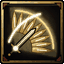
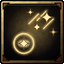
Anjo: farm de área vira Chuva de Estrelas
Troca o Leque do Juízo (cone, nível 5, usado pelo modo automático) por
uma chuva de estrelas sobre o ponto do mouse: círculo de 2.6 tiles,
recarga 3.0 s, mult 1.2, 4 estrelas. Id mantido (anjo_leque_juizo) porque
o jogo referencia esse id em habilidades.gd, jogador.gd e efeitos.gd.

Ícone do nível 5 redesenhado (motivo em motivos_skills.py) nos três tamanhos.

Claude-Session: https://claude.ai/code/session_01B8yavTgtjqjp7brHmbVyqa

diff --git a/design/skills-itens/fontes/skills_data.py b/design/skills-itens/fontes/skills_data.py
@@ -264,14 +264,14 @@ sk(id="tecnomancer_maquina_juizo_reverso", classe="tecnomancer", nome="Máquina 
 # Feitas para FARMAR em spots e para o MODO AUTOMÁTICO: área grande, recarga curta, custo que esvazia o recurso
 # em ~20 s de uso contínuo a partir do cheio (ver 'economia_auto'). Números PROVISÓRIOS até a thread Design do combate fechar mana e poções.
 NIVEL5 = dict(nivel=5, area_nivel5=True, provisorio=True)
-sk(id="anjo_leque_juizo", classe="anjo", nome="Leque do Juízo", tipo="area", **NIVEL5,
-   custo=16, recarga=1.6, conjuracao=0.35, alcance=0, area="leque 100° à frente, 3.5 tiles", duracao=2.0, elemento="sagrado", escala=["ESP","FOR"],
-   formato_area={"forma":"cone","angulo_graus":100,"raio_tiles":3.5,"origem":"personagem","direcao":"mouse"},
-   dano={"golpe_espada_mult":1.3,"fogo_mult_por_alvo":0.9,"queimadura_sagrada":{"duracao_s":2.0,"dano_por_s_mult":0.1}},
-   efeitos=["golpe de espada no alvo da frente", "fogo divino queima tudo no leque", "+15% de dano em tag:praga (mutantes e pragas)", "só o 1º alvo gera Graça"],
-   descricao="O Anjo desce a espada e o golpe não para na lâmina: o ar à frente pega fogo branco e se abre como um leque de penas em brasa.",
-   fx="arco da espada + chamas brancas e douradas abrindo em leque do chão para frente + penas queimando no ar", som="lâmina pesada + whoosh de fogo + coro curto",
-   economia_auto={"recurso_max_nivel5":"~120 Graça", "gasto_por_s":10.0, "ganho_por_s":"~4 (1,5 regen + golpe no 1º alvo)", "dura_do_cheio_s":20})
+sk(id="anjo_leque_juizo", classe="anjo", nome="Chuva de Estrelas", tipo="area", **NIVEL5,
+   custo=18, recarga=3.0, conjuracao=0.3, alcance=7, area="círculo de 2.6 tiles no ponto do mouse", duracao=1.2, elemento="sagrado", escala=["ESP","FOR"],
+   formato_area={"forma":"circulo","raio_tiles":2.6,"origem":"ponto_alvo","direcao":"mouse"},
+   dano={"mult":1.2, "estrelas":4},
+   efeitos=["4 estrelas de luz caem do céu sobre o ponto do mouse", "impacto dourado em cada alvo da área", "+15% de dano em tag:praga (mutantes e pragas)", "só o 1º alvo gera Graça"],
+   descricao="O Anjo ergue a espada e o céu responde: estrelas de luz descem em diagonal e explodem na cabeça dos inimigos, uma após a outra, até a área virar um clarão dourado.",
+   fx="4 estrelas em diagonal descendo do topo da tela + flash branco-dourado no impacto + mini-explosão de luz na posição do mob", som="sino curto + assobio de estrela + estalo de luz",
+   economia_auto={"recurso_max_nivel5":"~120 Graça", "gasto_por_s":6.0, "ganho_por_s":"~4 (1,5 regen + golpe no 1º alvo)", "dura_do_cheio_s":20})
 sk(id="cultista_espinhos_sangue", classe="cultista", nome="Espinhos de Sangue", tipo="area", **NIVEL5,
    custo="5% HP", recarga=1.8, conjuracao=0.5, alcance=7, area="círculo de 2.2 tiles no ponto do mouse", duracao=0.6, elemento="sangue", escala=["ESP"],
    formato_area={"forma":"circulo","raio_tiles":2.2,"origem":"ponto_alvo","alcance_max_tiles":7},

diff --git a/tools/icones/motivos_skills.py b/tools/icones/motivos_skills.py
@@ -246,15 +246,14 @@ def humano_arrancada(E):
 def _leque(cx, cy, r, a0, a1, cor, op=.55):
     p0 = (cx + r*math.cos(math.radians(a0)), cy + r*math.sin(math.radians(a0))); p1 = (cx + r*math.cos(math.radians(a1)), cy + r*math.sin(math.radians(a1)))
     return f'<path d="M{cx} {cy} L{p0[0]:.1f} {p0[1]:.1f} A{r} {r} 0 0 1 {p1[0]:.1f} {p1[1]:.1f} Z" fill="{cor}" opacity="{op}" filter="url(#gl)"/>'
+def _estrela(x, y, r, cor):
+    return f'<path d="M{x} {y-r} Q{x} {y} {x+r} {y} Q{x} {y} {x} {y+r} Q{x} {y} {x-r} {y} Q{x} {y} {x} {y-r} Z" fill="{cor}" stroke="#7a5a1e" stroke-width=".8"/>'
 def anjo_leque_juizo(E):
-    chamas = ""
-    for a in range(-92, 8, 12):
-        r = math.radians(a); ux, uy = math.cos(r), math.sin(r); px, py = -uy, ux
-        bx, by = 12 + 20*ux, 52 + 20*uy
-        chamas += f'<path d="M{bx+3*px:.1f} {by+3*py:.1f} Q{bx+14*ux+5*px:.1f} {by+14*uy+5*py:.1f} {bx+26*ux:.1f} {by+26*uy:.1f} Q{bx+12*ux-5*px:.1f} {by+12*uy-5*py:.1f} {bx-3*px:.1f} {by-3*py:.1f} Z" fill="url(#gO)" stroke="#5a3a10" stroke-width=".8"/>'
-        chamas += f'<path d="M{bx+6*ux:.1f} {by+6*uy:.1f} L{bx+18*ux:.1f} {by+18*uy:.1f}" stroke="#fff8e0" stroke-width="1.2"/>'
-    return f'''{_leque(12,52,50,-98,12,E,.28)}{chamas}{gl("M12 52 m0 -46 A46 46 0 0 1 58 52", E, 1.8)}
- {espada(20,44,45,0.82,E,("#fff4cc","#e8c46a","#7a5a1e"))}{gl("M4 44 Q14 18 42 10", "#ffffff", 2)}{dot(12,52,3,"#fff8e0")}'''
+    # Chuva de Estrelas (id mantido): estrelas descendo em diagonal e clarão de impacto no alvo
+    rastros = "".join(gl(f"M{x} {y} L{x-12} {y+12}", E, 1.2) for x, y in ((50, 6), (58, 16), (40, 10)))
+    estrelas = _estrela(50, 14, 9, "#fff4cc") + _estrela(38, 26, 6.5, "#fff4cc") + _estrela(58, 32, 5, "#e8c46a") + _estrela(30, 8, 4.5, "#fff8e0")
+    return f'''{rastros}{estrelas}{gl("M22 46 m-12 0 a12 12 0 1 0 24 0 a12 12 0 1 0 -24 0", E, 1.6)}
+ <ellipse cx="22" cy="46" rx="7" ry="4" fill="#fff4cc" opacity=".7" filter="url(#gl)"/>{_estrela(22, 46, 8, "#ffffff")}{dot(22,46,2,"#fff8e0")}'''
 def cultista_espinhos_sangue(E):
     espinhos = "".join(f'<path d="M{x-3.4*s} {y} L{x} {y-16*s} L{x+3.4*s} {y} Z" fill="url(#gS)" {o}/><path d="M{x-1} {y-2} L{x} {y-13*s}" stroke="#ff9a8a" stroke-width="1"/>' for x,y,s in ((20,44,0.8),(44,44,0.8),(32,40,1.15),(25,52,1),(39,52,1),(32,56,0.7),(14,52,0.6),(50,52,0.6)))
     return f'''<ellipse cx="32" cy="48" rx="26" ry="11" fill="#3a0604" {o}/><ellipse cx="32" cy="48" rx="26" ry="11" fill="none" stroke="{E}" stroke-width="1.6" filter="url(#gl)"/>
